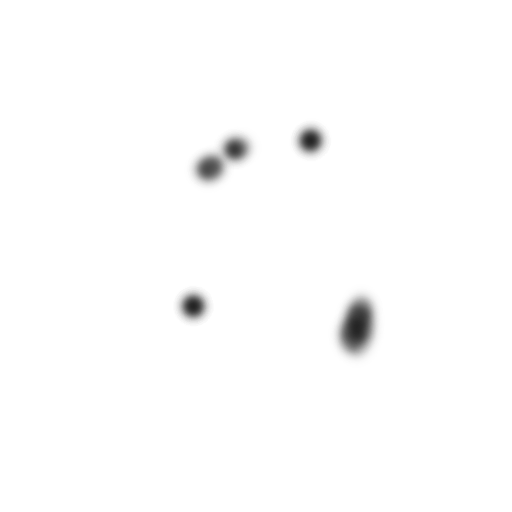
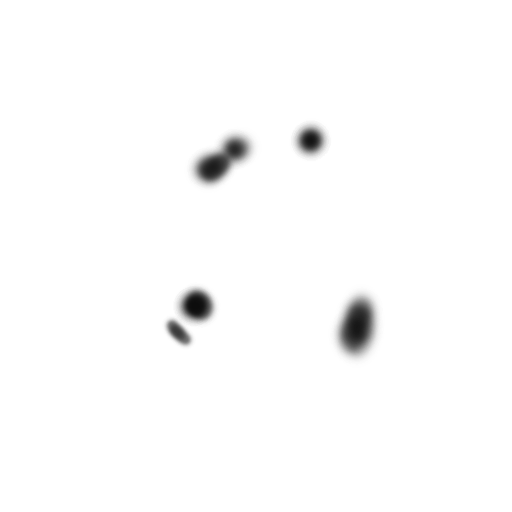
Fix：修改了磨皮算法，现在效果更好

Changed region(s): [[0.3125, 0.5625, 0.4375, 0.6875], [0.375, 0.2812, 0.4688, 0.375], [0.5625, 0.25, 0.625, 0.3125]]

diff --git a/exp1/skin-smoothing_demo/skin_smoothing.py b/exp1/skin-smoothing_demo/skin_smoothing.py
@@ -1,82 +1,93 @@
 import numpy as np
 import matplotlib.pyplot as plt
 from PIL import Image
-from scipy.ndimage import gaussian_filter, median_filter
+from scipy.ndimage import gaussian_filter
 
-# 1. 准备图片
-img_pil = Image.open('exp1/skin-smoothing_demo/test_img.jpg').convert('L')
-img = np.array(img_pil).astype(float) / 255.0
+def load_image(path, size=None):
+    """读取图片并归一化"""
+    img = Image.open(path).convert('L')
+    if size:
+        img = img.resize(size, Image.Resampling.LANCZOS)
+    return np.array(img).astype(float) / 255.0
 
-# 步骤 1: 频率分离
-# Sigma=0.8: 此时低频层痘痘清晰，高频层很干净
-split_sigma = 0.8
-img_low = gaussian_filter(img, sigma=split_sigma)
-img_high = img - img_low
+# 1. 准备数据
+img_path = 'exp1/skin-smoothing_demo/test_img.jpg'
+mask_path = 'exp1/skin-smoothing_demo/mask.png'
 
-# 步骤 2: 加载手动蒙版
+# 加载原图
+img = load_image(img_path)
+h, w = img.shape
+
+# 加载蒙版
 try:
-    # 尝试加载手动绘制的蒙版
-    mask_pil = Image.open('exp1/skin-smoothing_demo/mask.png').convert('L')
-    
-    # 强制调整蒙版尺寸以匹配原图。我提供的示例蒙版尺寸是 512x512，理论上与输入图像一致。
-    if mask_pil.size != img_pil.size:
-        print(f"蒙版尺寸 {mask_pil.size} 与原图 {img_pil.size} 不一致，已自动缩放。")
-        mask_pil = mask_pil.resize(img_pil.size, Image.Resampling.LANCZOS)
-    
+    mask_pil = Image.open(mask_path).convert('L').resize((w, h))
     mask = np.array(mask_pil).astype(float) / 255.0
-
 except FileNotFoundError:
-    print("未找到 'exp1/skin-smoothing_demo/mask.png'")
-    mask = np.zeros_like(img)
+    print("未找到蒙版文件，请检查路径。")
+    mask = np.ones_like(img) # 如果没蒙版，全白(不处理)
 
-# 对蒙版做一点轻微的高斯模糊，保证黑白交界处过渡自然
-mask_soft = gaussian_filter(mask, sigma=2.0)
+# 蒙版柔化：虽然蒙版是精准的，但在像素级别上，稍微一点点羽化(sigma=1.0)能让修补的边缘完全融合，看不出拼接痕迹
+mask_soft = gaussian_filter(mask, sigma=1.5)
 
-# 步骤 3: 对低频层进行选择性磨皮
-# 1. 生成磨皮层
-# 既然有蒙版保护五官，可以放心大胆地用大核磨皮
-img_low_retouched_base = median_filter(img_low, size=30) 
+# 参数设置
+# sigma_texture (小)
+sigma_texture = 0.8
 
-# 2. 融合：
-# mask=1 (白色/五官) -> 使用原始 img_low (清晰)
-# mask=0 (黑色/皮肤) -> 使用 img_low_retouched_base (磨皮)
-img_low_final = img_low * mask_soft + img_low_retouched_base * (1 - mask_soft)
+# sigma_structure (大)
+sigma_structure = 8.0
 
-# 步骤 4: 合成
-img_restored = img_low_final + img_high
+# 提取纯净的高频纹理
+blur_small = gaussian_filter(img, sigma=sigma_texture)
+img_high = img - blur_small
 
-# 步骤 5:可视化
-plt.figure(figsize=(14, 8))
+# 提取平滑的低频轮廓
+img_low = gaussian_filter(img, sigma=sigma_structure)
 
+# 合成Patch = 高频 + 低频
+img_patch = img_high + img_low
+
+# 蒙版融合
+img_final = img * mask_soft + img_patch * (1 - mask_soft)
+
+# 3. 可视化展示
+plt.figure(figsize=(18, 10))
+
+# 1. 原图
 plt.subplot(2, 3, 1)
-plt.imshow(img_low, cmap='gray')
-plt.title(f'Original Low Freq (Sigma={split_sigma})')
+plt.imshow(img, cmap='gray')
+plt.title('Original Image')
 plt.axis('off')
 
+# 2. 蒙版
 plt.subplot(2, 3, 2)
-plt.imshow(img_high, cmap='gray')
-plt.title('High Freq (Texture Only)')
+plt.imshow(mask, cmap='gray')
+plt.title('Manual Mask\n(Black = Acne Spots)')
 plt.axis('off')
 
+# 3. 高频层 (纹理)
 plt.subplot(2, 3, 3)
-plt.imshow(mask_soft, cmap='gray')
-plt.title('Manual Mask\n(White=Keep Sharp, Black=Smooth)')
+plt.imshow(img_high, cmap='gray')
+plt.title(f'High Freq (Texture)\n$\sigma$={sigma_texture}')
 plt.axis('off')
 
+# 4. 低频层 (结构)
 plt.subplot(2, 3, 4)
-plt.imshow(img_low_retouched_base, cmap='gray')
-plt.title('Heavy Blur Low Freq')
+plt.imshow(img_low, cmap='gray')
+plt.title(f'Low Freq (Structure)\n$\sigma$={sigma_structure}')
 plt.axis('off')
 
+# 5. 补丁图
 plt.subplot(2, 3, 5)
-plt.imshow(img_low_final, cmap='gray')
-plt.title('Masked Low Freq')
+plt.imshow(img_patch, cmap='gray')
+plt.title('Synthesized Patch\n(High + Low)')
 plt.axis('off')
 
+# 6. 最终结果
 plt.subplot(2, 3, 6)
-plt.imshow(img_restored, cmap='gray')
-plt.title('Final Result')
+plt.imshow(img_final, cmap='gray')
+plt.title('Final Result\n(Band-Stop Filtered)')
 plt.axis('off')
 
 plt.tight_layout()
 plt.savefig('exp1/skin-smoothing_demo/skin_smoothing_result.png', dpi=300)
+plt.show()
